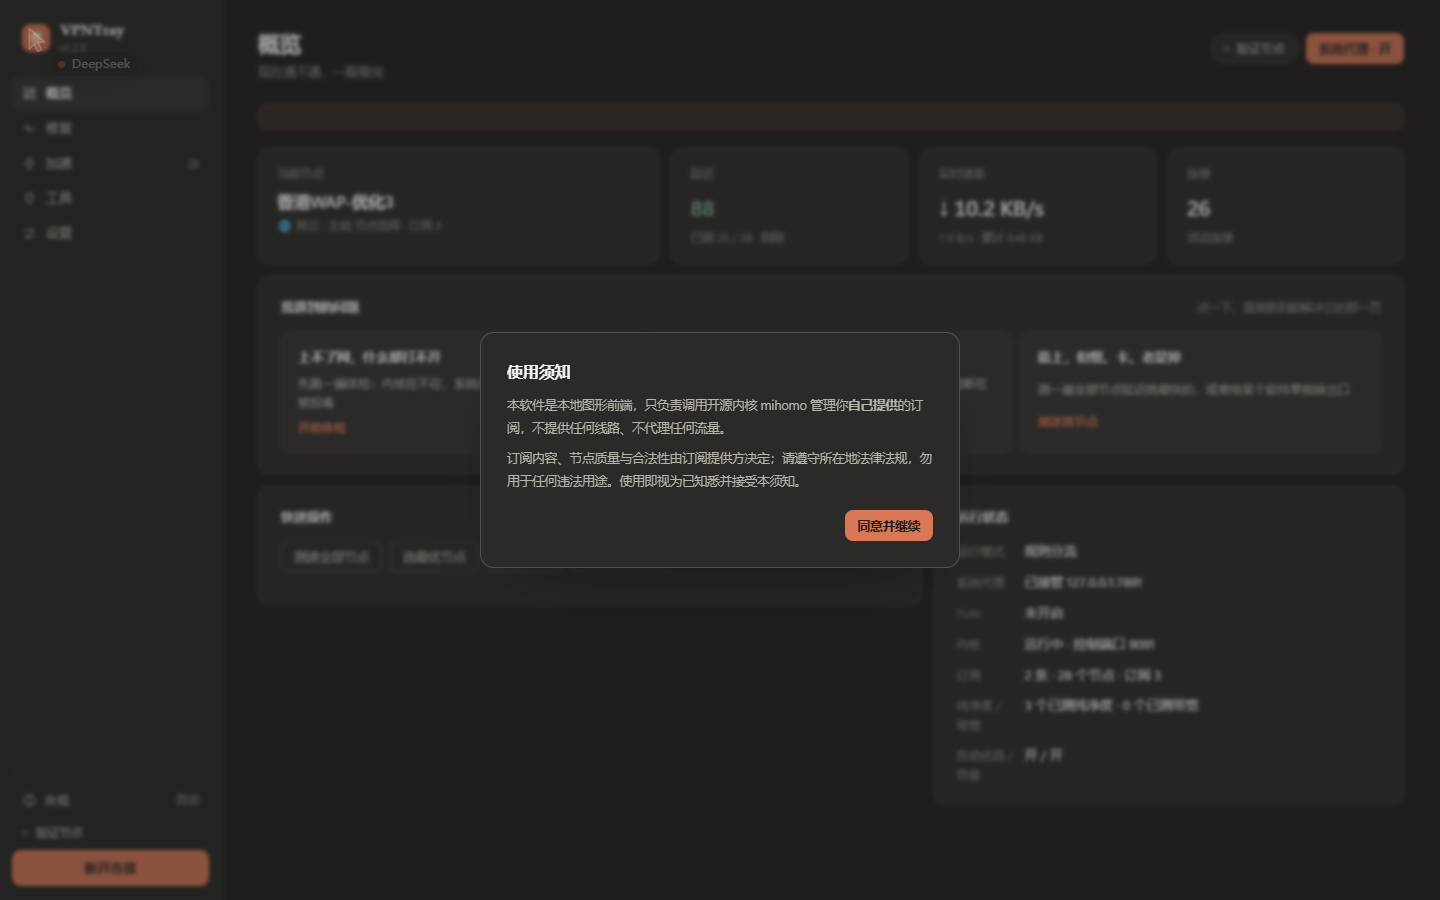
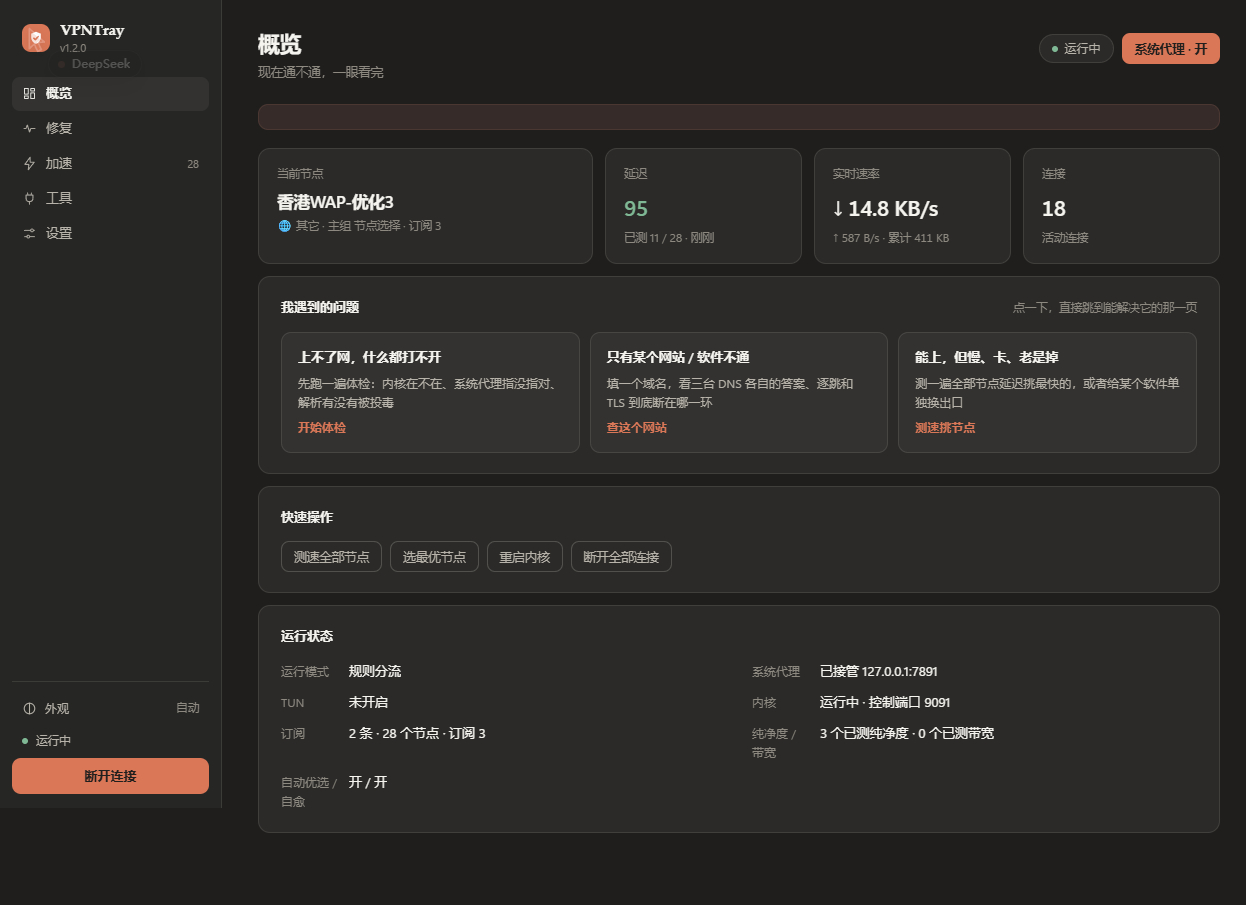
fix(1.2.0): 卡片按实测高度配对 + 同期同高，概览收成三段整行

diff --git a/assets/index.html b/assets/index.html
@@ -157,11 +157,16 @@ button,input,select,textarea{font:inherit;color:inherit}
 .good{color:var(--ok)} .warnc{color:var(--warn)} .badc{color:var(--bad)}
 .cols{display:grid;grid-template-columns:minmax(0,1fr) minmax(0,1fr);gap:12px}
 .cols.wide{grid-template-columns:minmax(0,1.25fr) minmax(0,1fr)}
-.grid{display:grid;grid-template-columns:repeat(12,minmax(0,1fr));gap:12px;align-items:start}
+.grid{display:grid;grid-template-columns:repeat(12,minmax(0,1fr));gap:12px;align-items:stretch}
 .grid > .c3{grid-column:span 3}.grid > .c4{grid-column:span 4}.grid > .c5{grid-column:span 5}
 .grid > .c6{grid-column:span 6}.grid > .c7{grid-column:span 7}.grid > .c8{grid-column:span 8}
 .grid > .c12{grid-column:span 12}
 .grid > .card,.grid > .stack{min-width:0}
+/* 同一行的卡片一样高，说明行沉到底：否则短卡下面留一大块白，看着像没摆满 */
+.grid > .card{display:flex;flex-direction:column}
+.grid > .card > .note{margin-top:auto}
+/* 运行状态：整行时排两列，短行不再一列拖一屏 */
+@media(min-width:760px){#homeInfo{display:grid;grid-template-columns:1fr 1fr;column-gap:26px}}
 .probs-card{margin-bottom:12px}
 .probs{display:grid;grid-template-columns:repeat(3,minmax(0,1fr));gap:10px}
 .prob{display:grid;gap:6px;text-align:left;padding:14px 16px;border-radius:10px;border:1px solid var(--line);
@@ -538,7 +543,7 @@ html[data-theme="dark"] .empty{color:var(--ink2)}
       </section>
 
       <div class="grid">
-      <section class="card c7">
+      <section class="card c12">
         <h2>快速操作</h2>
         <div class="acts">
           <button class="btn" id="btnTest">测速全部节点</button>
@@ -549,7 +554,7 @@ html[data-theme="dark"] .empty{color:var(--ink2)}
         <div class="pbar" id="progHome" hidden><i></i><b>0%</b></div>
         <div class="note" id="homeNote"></div>
       </section>
-      <section class="card c5">
+      <section class="card c12">
         <h2>运行状态</h2>
         <div class="kv" id="homeInfo"></div>
       </section>
@@ -662,6 +667,22 @@ html[data-theme="dark"] .empty{color:var(--ink2)}
         <div class="note" id="cpNote"></div>
       </section>
       <section class="card c6">
+        <h2>AI 接口<span class="hint">让本机的 AI 客户端直接操作这个程序</span></h2>
+        <div class="gwrap" id="apiPills"></div>
+        <div id="apiBody"></div>
+        <div class="acts" style="margin-top:12px">
+          <label class="sw" title="关闭后所有 /ai/v1 调用都返回 401"><input type="checkbox" id="apiOn"><i></i></label>
+          <select class="sel" id="apiLevel" title="AI 最多能做到哪一步">
+            <option value="read">只读</option>
+            <option value="write">可改配置</option>
+            <option value="full">完全控制</option>
+          </select>
+          <button class="btn" data-act="api-copy">复制 token</button>
+          <button class="btn" data-act="api-regen">重置 token</button>
+        </div>
+        <div class="note" id="apiNote"></div>
+      </section>
+      <section class="card c6">
         <h2>本机解析<span class="hint" id="dnsHint"></span></h2>
         <div class="gwrap" id="dnsPills"></div>
         <div class="acts" style="margin-top:12px">
@@ -669,6 +690,10 @@ html[data-theme="dark"] .empty{color:var(--ink2)}
           <label class="sw" title="本地 DNS 兜底：127.0.0.1:53"><input type="checkbox" id="dnsOn"><i></i></label>
         </div>
         <div class="note" id="dnsNote"></div>
+      </section>
+      <section class="card c6">
+        <h2>AI 通道<span class="hint"><label class="sw" title="Claude Code / Codex 走独立出口"><input type="checkbox" id="aiOn"><i></i></label></span></h2>
+        <div id="aiBody"></div>
       </section>
       <section class="card c6">
         <h2>GitHub<span class="hint" id="ghHint"></span></h2>
@@ -687,26 +712,6 @@ html[data-theme="dark"] .empty{color:var(--ink2)}
           <label class="sw" title="托盘内守护：端口没人听就拉起来"><input type="checkbox" id="ocrOn"><i></i></label>
         </div>
         <div class="note" id="ocrNote">图片先送到 127.0.0.1:8791 换成文字再转发给模型。它和代理无关：阿里云域名在规则里直连。</div>
-      </section>
-      <section class="card c6">
-        <h2>AI 通道<span class="hint"><label class="sw" title="Claude Code / Codex 走独立出口"><input type="checkbox" id="aiOn"><i></i></label></span></h2>
-        <div id="aiBody"></div>
-      </section>
-      <section class="card c6">
-        <h2>AI 接口<span class="hint">让本机的 AI 客户端直接操作这个程序</span></h2>
-        <div class="gwrap" id="apiPills"></div>
-        <div id="apiBody"></div>
-        <div class="acts" style="margin-top:12px">
-          <label class="sw" title="关闭后所有 /ai/v1 调用都返回 401"><input type="checkbox" id="apiOn"><i></i></label>
-          <select class="sel" id="apiLevel" title="AI 最多能做到哪一步">
-            <option value="read">只读</option>
-            <option value="write">可改配置</option>
-            <option value="full">完全控制</option>
-          </select>
-          <button class="btn" data-act="api-copy">复制 token</button>
-          <button class="btn" data-act="api-regen">重置 token</button>
-        </div>
-        <div class="note" id="apiNote"></div>
       </section>
       </div>
     </section>
@@ -727,6 +732,14 @@ html[data-theme="dark"] .empty{color:var(--ink2)}
         <div class="togrow"><div class="k">故障自愈<em>节点不可用或断网时自动恢复</em></div><label class="sw"><input type="checkbox" id="healOn"><i></i></label></div>
       </section>
       <section class="card c6">
+        <h2>订阅列表<span class="hint" id="subCount"></span></h2>
+        <div class="rows" id="subs"></div>
+        <div class="addbar">
+          <input class="txt" id="subUrl" placeholder="粘贴订阅链接 https://…" autocomplete="off" spellcheck="false">
+          <button class="btn primary" id="subAdd">添加</button>
+        </div>
+      </section>
+      <section class="card c6">
         <h2>维护</h2>
         <div class="acts">
           <button class="btn" id="btnPurity">纯净度 · 当前节点</button>
@@ -740,15 +753,7 @@ html[data-theme="dark"] .empty{color:var(--ink2)}
         <div class="pbar" id="progSpeed" hidden><i></i><b>0%</b></div>
         <div class="note" id="ngNote" hidden></div>
       </section>
-      <section class="card c7">
-        <h2>订阅列表<span class="hint" id="subCount"></span></h2>
-        <div class="rows" id="subs"></div>
-        <div class="addbar">
-          <input class="txt" id="subUrl" placeholder="粘贴订阅链接 https://…" autocomplete="off" spellcheck="false">
-          <button class="btn primary" id="subAdd">添加</button>
-        </div>
-      </section>
-      <section class="card c5">
+      <section class="card c6">
         <h2>流量概览<span class="hint" id="subHint"></span></h2>
         <div class="sumgrid">
           <div class="sumcell"><div class="k">当前订阅</div><div class="v" id="sumName">—</div></div>

diff --git a/README.md b/README.md
@@ -491,7 +491,13 @@ python -m pytest tests -q           # 单元测试
 - **只有某个网站 / 软件不通** → 修复页并聚焦域名输入框（填 `www.okx.com` 点「DNS + 逐跳」）；
 - **能上，但慢、卡、老是掉** → 加速页 + 测速全部节点。
 
-**布局**：`.grid` 是 12 列，卡片用 `.c4/.c5/.c6/.c7/.c12` 声明跨度，≤1080px 全部落单列。以前是「一页一列往下堆」，卡越长越难扫；现在是「两列并排、同类对齐」。
+**布局**：`.grid` 是 12 列，卡片用 `.c3/.c4/.c5/.c6/.c7/.c8/.c12` 声明跨度，≤1080px 全部落单列。三条规则定死，避免「半张卡空着」：
+
+- **同期同高**：`align-items:stretch`，同一行的卡片一样高，说明行沉到底（`.grid > .card > .note{margin-top:auto}`），短卡下面不再留一块白。
+- **宽度按内容给**：表格（节点）与行列表（场景 / 订阅）一律整行，硬塞半栏会把节点名、域名说明截断；只有按钮组、kv、小表单这些能并排的才进两列。
+- **配对按实测高度**：工具页与设置页的卡片按渲染高度重新配对（校园网 367 ⟷ AI 接口 367、本机解析 240 ⟷ AI 通道 240、GitHub 163 ⟷ OCR 163；运行 404 ⟷ 订阅 404、维护 217 ⟷ 流量 217、更新 219 ⟷ 反馈 219），同一行的高度差从最大 257px 收到 0。
+
+概览页收成三段整行（我遇到的问题 / 快速操作 / 运行状态），运行状态的 kv 在宽屏排两列——一列七个 kv 会拖出一屏空白。
 
 **旧的深链接不会断**：`nodes/scenes/ai/subs` 走 `VIEW_ALIAS` 落到 `speed/tools/settings`，书签里存的老页面打开还是能到地方。
 
@@ -502,6 +508,10 @@ python -m pytest tests -q           # 单元测试
 ![界面·概览](assets/screenshot-ui-home.png)
 
 ![界面·修复](assets/screenshot-ui-fix.png)
+
+![界面·工具](assets/screenshot-ui-tools.png)
+
+![界面·设置](assets/screenshot-ui-settings.png)
 
 ### 1.1.1 — 诊断卡多了「导出诊断包」：把现场带走
 
